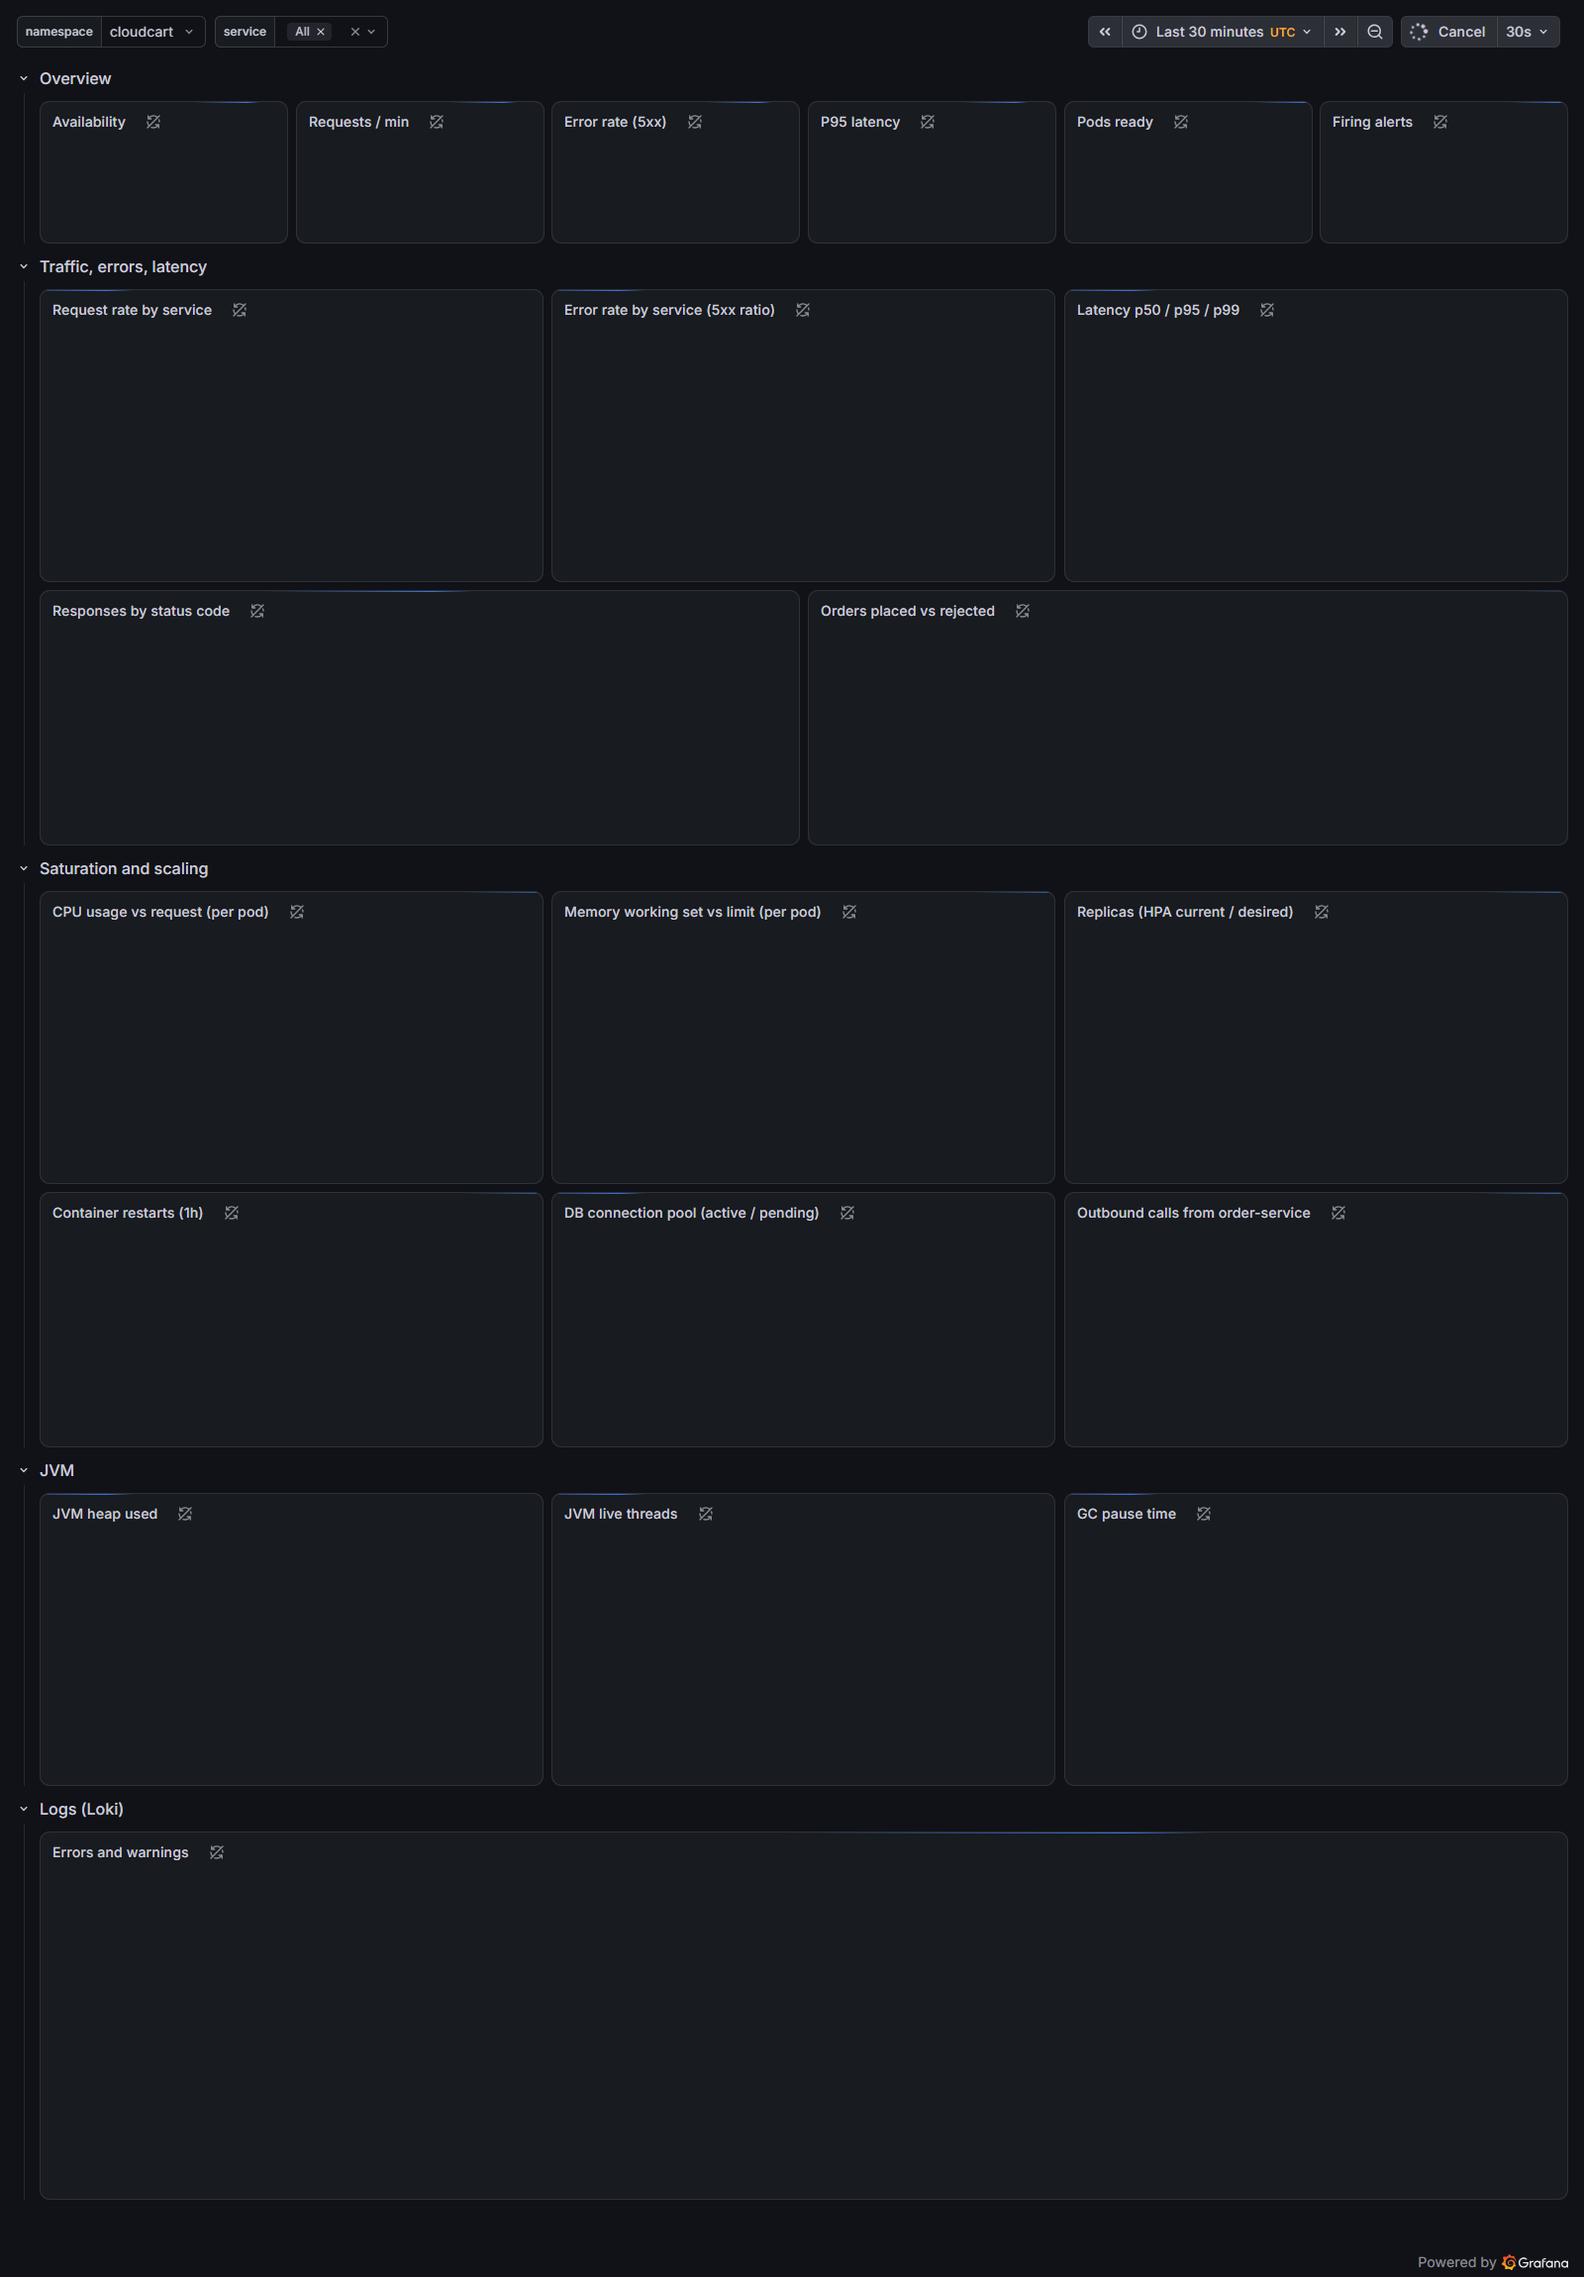
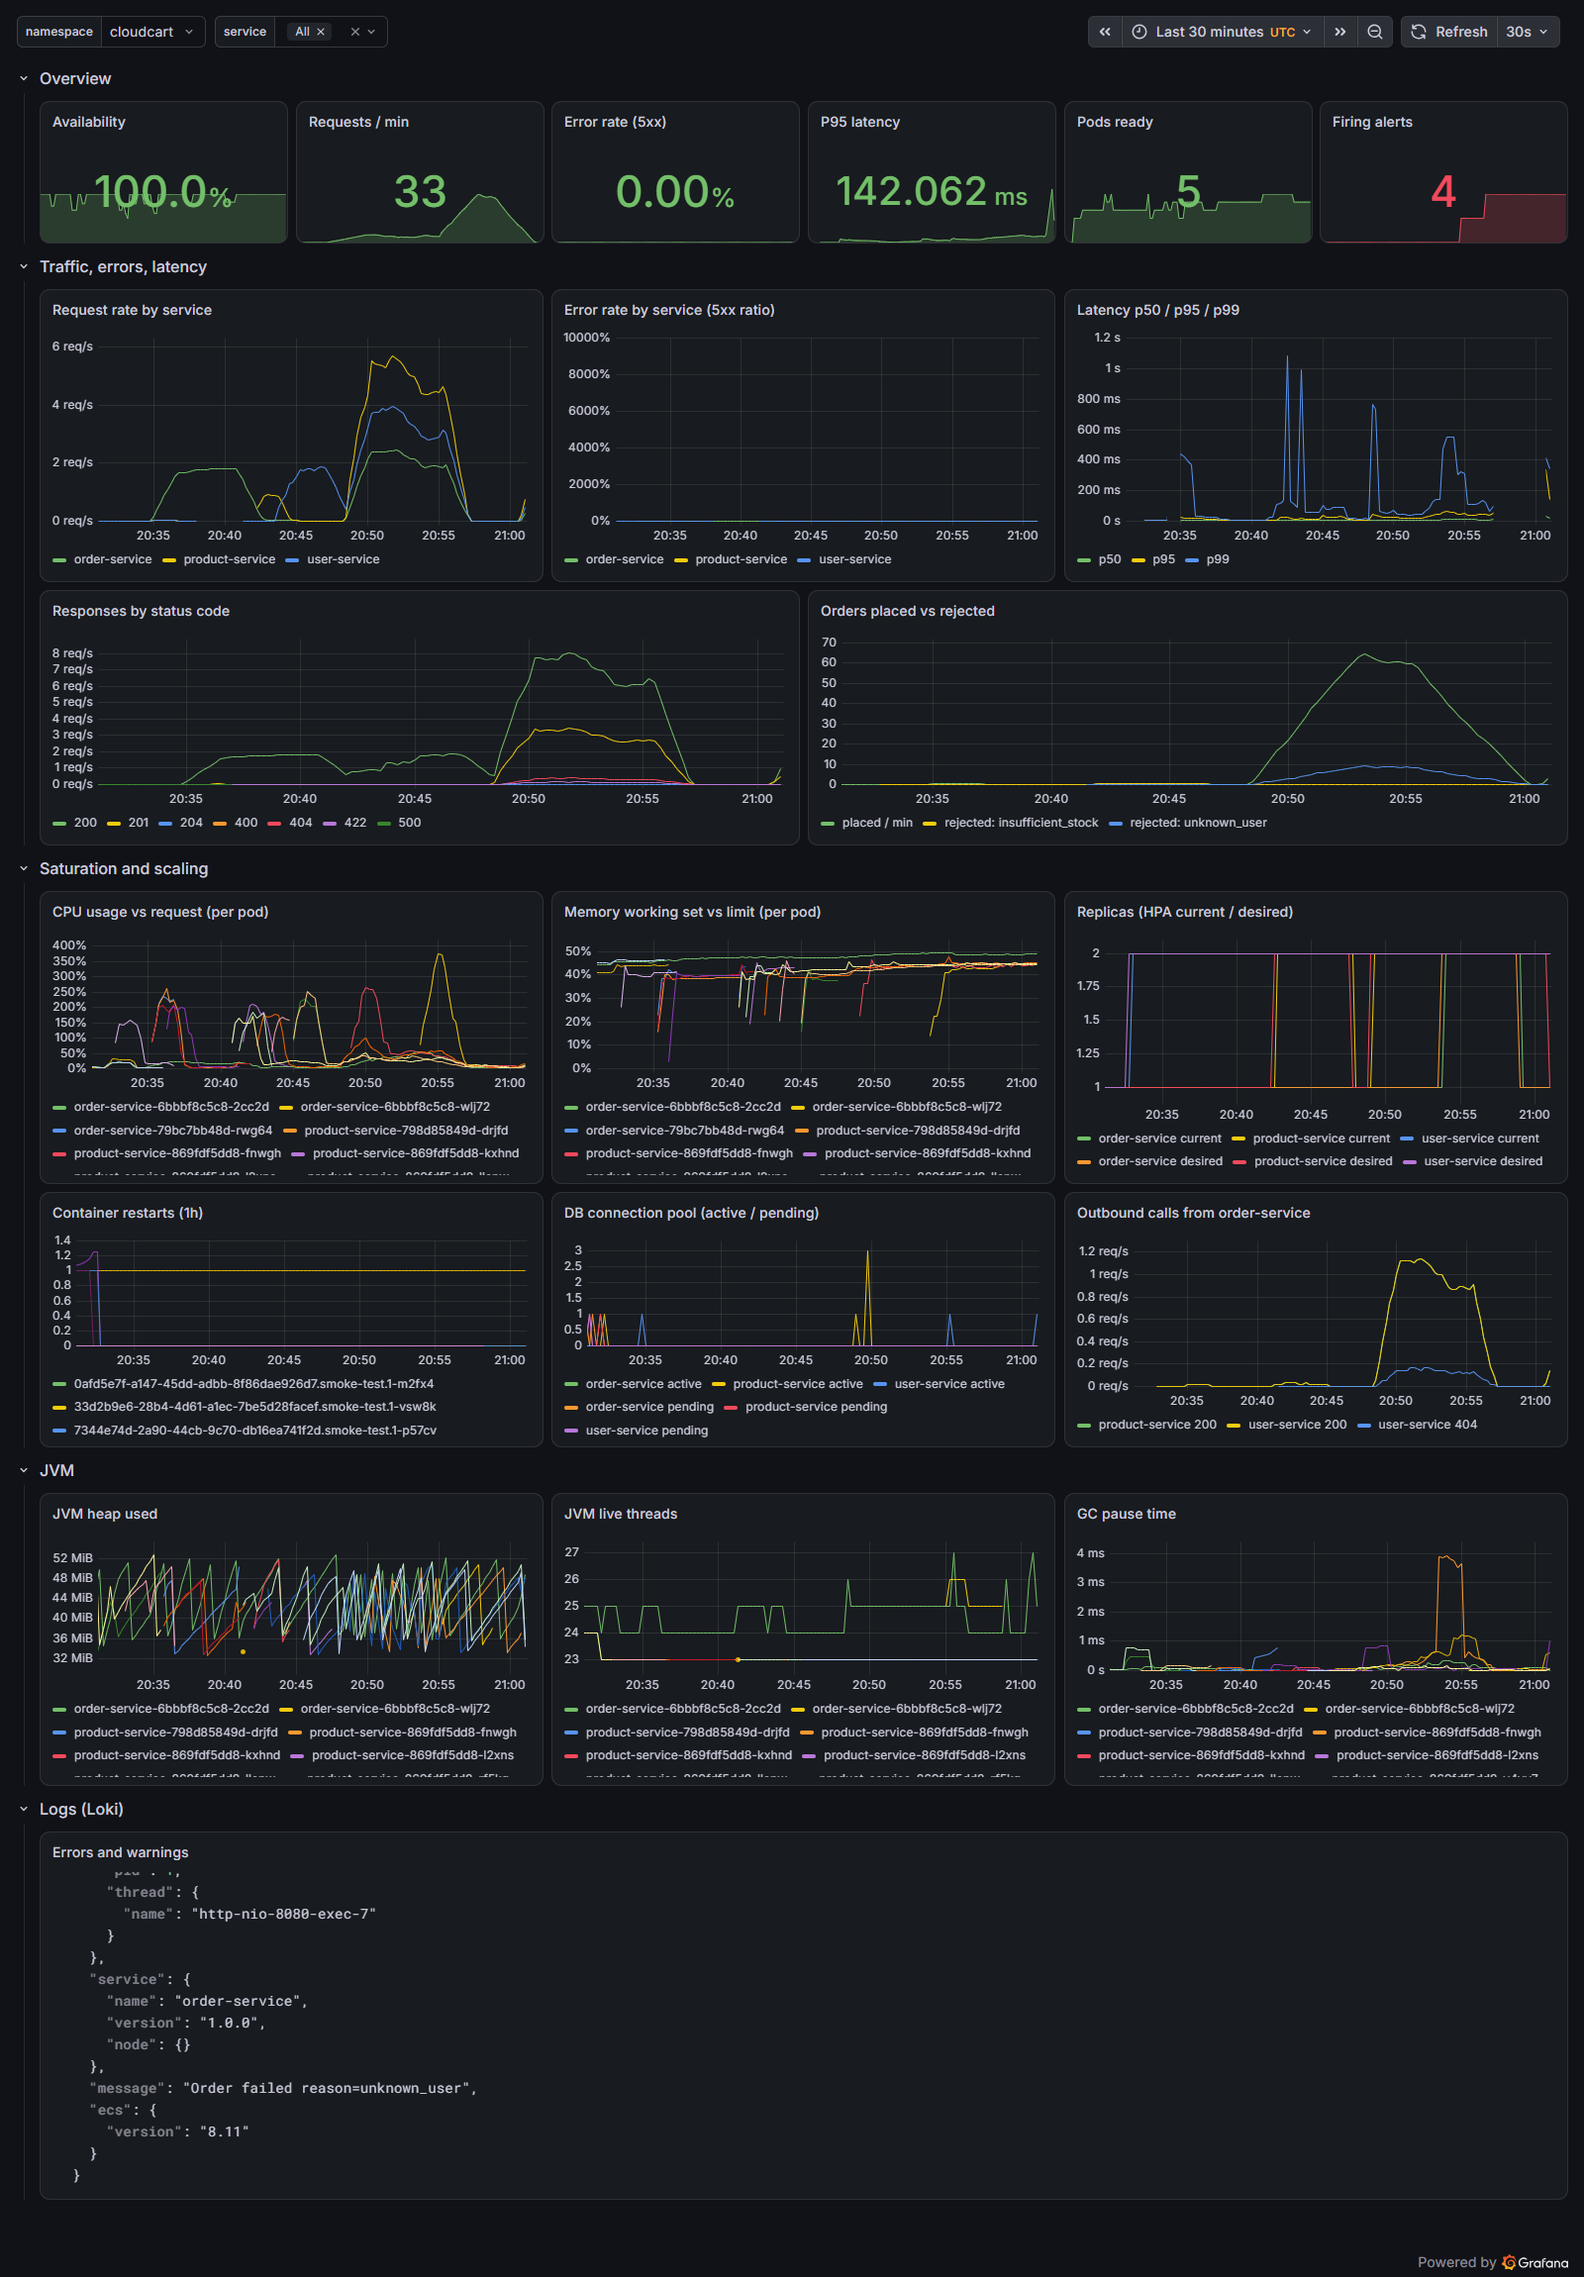
fix(grafana): error-rate axis 0-100%, restarts for app containers only, single-line logs

diff --git a/monitoring/grafana/generate_dashboard.py b/monitoring/grafana/generate_dashboard.py
@@ -36,8 +36,8 @@ def panel(title, kind, targets, x, y, w, h, unit=None, **extra):
         if k == "thresholds":
             p["fieldConfig"]["defaults"]["thresholds"] = {"mode": "absolute", "steps": v}
             p["fieldConfig"]["defaults"]["color"] = {"mode": "thresholds"}
-        elif k == "decimals":
-            p["fieldConfig"]["defaults"]["decimals"] = v
+        elif k in ("decimals", "min", "max"):
+            p["fieldConfig"]["defaults"][k] = v
         else:
             p[k] = v
     panels.append(p)
@@ -88,7 +88,7 @@ panel("Request rate by service", "timeseries",
 panel("Error rate by service (5xx ratio)", "timeseries",
       [q(f'(sum by (job) (rate(http_server_requests_seconds_count{{{HTTP}, status=~"5.."}}[2m])) or (sum by (job) (rate(http_server_requests_seconds_count{{{HTTP}}}[2m])) * 0))'
          f' / clamp_min(sum by (job) (rate(http_server_requests_seconds_count{{{HTTP}}}[2m])), 0.0001)', "{{job}}")],
-      8, 6, 8, 8, unit="percentunit")
+      8, 6, 8, 8, unit="percentunit", min=0, max=1)
 panel("Latency p50 / p95 / p99", "timeseries",
       [q(f'histogram_quantile(0.50, sum by (le) (rate(http_server_requests_seconds_bucket{{{HTTP}}}[2m])))', "p50"),
        q(f'histogram_quantile(0.95, sum by (le) (rate(http_server_requests_seconds_bucket{{{HTTP}}}[2m])))', "p95"),
@@ -117,7 +117,7 @@ panel("Replicas (HPA current / desired)", "timeseries",
        q(f'kube_horizontalpodautoscaler_status_desired_replicas{{{NS}}}', "{{horizontalpodautoscaler}} desired")],
       16, 22, 8, 8, unit="short")
 panel("Container restarts (1h)", "timeseries",
-      [q(f'sum by (pod) (increase(kube_pod_container_status_restarts_total{{{NS}}}[1h]))', "{{pod}}")],
+      [q(f'sum by (pod) (increase(kube_pod_container_status_restarts_total{{{NS}, container="app"}}[1h]))', "{{pod}}")],
       0, 30, 8, 7, unit="short")
 panel("DB connection pool (active / pending)", "timeseries",
       [q(f'sum by (job) (hikaricp_connections_active{{{NS}, {APP}}})', "{{job}} active"),
@@ -143,7 +143,8 @@ panel("GC pause time", "timeseries",
 row("Logs (Loki)", 46)
 panel("Errors and warnings", "logs",
       [{"expr": '{namespace="$namespace", app=~"$service", level=~"ERROR|WARN"}', "datasource": LOKI}],
-      0, 47, 24, 10, options={"showTime": True, "wrapLogMessage": True, "sortOrder": "Descending"})
+      0, 47, 24, 10, options={"showTime": True, "wrapLogMessage": False, "prettifyLogMessage": False,
+               "enableLogDetails": True, "sortOrder": "Descending"})
 
 dashboard = {
     "uid": "cloudcart-overview",
